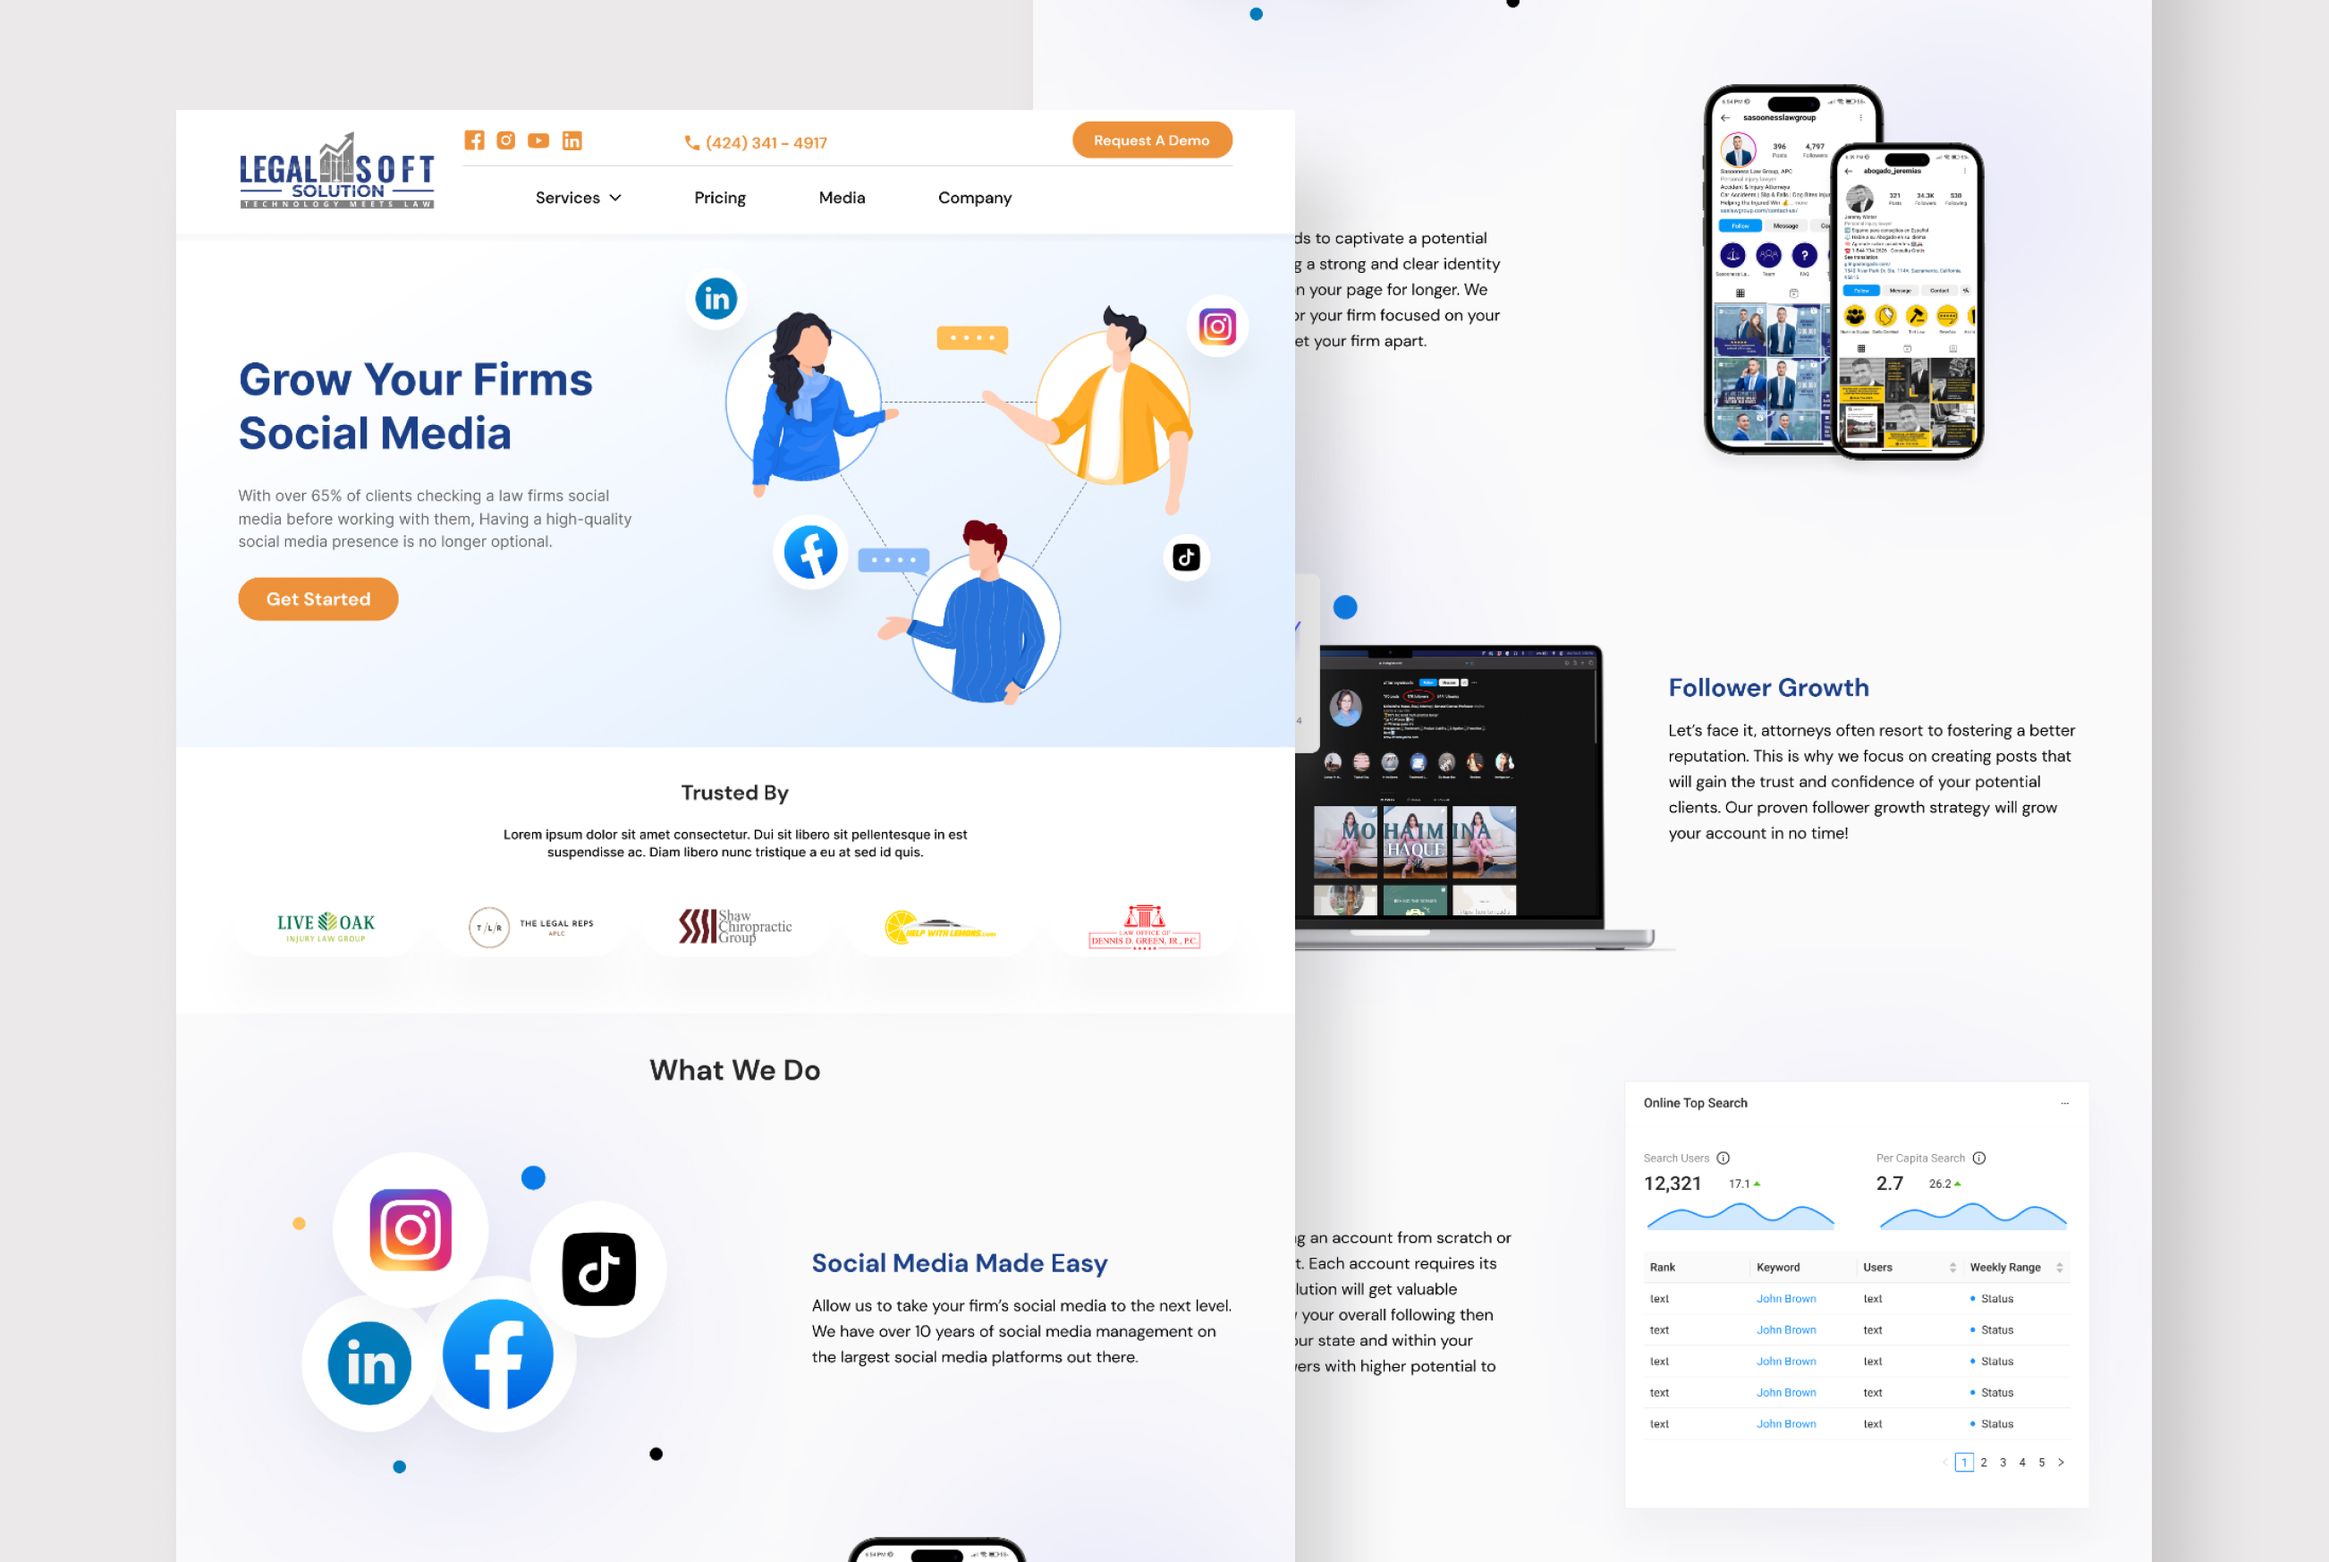
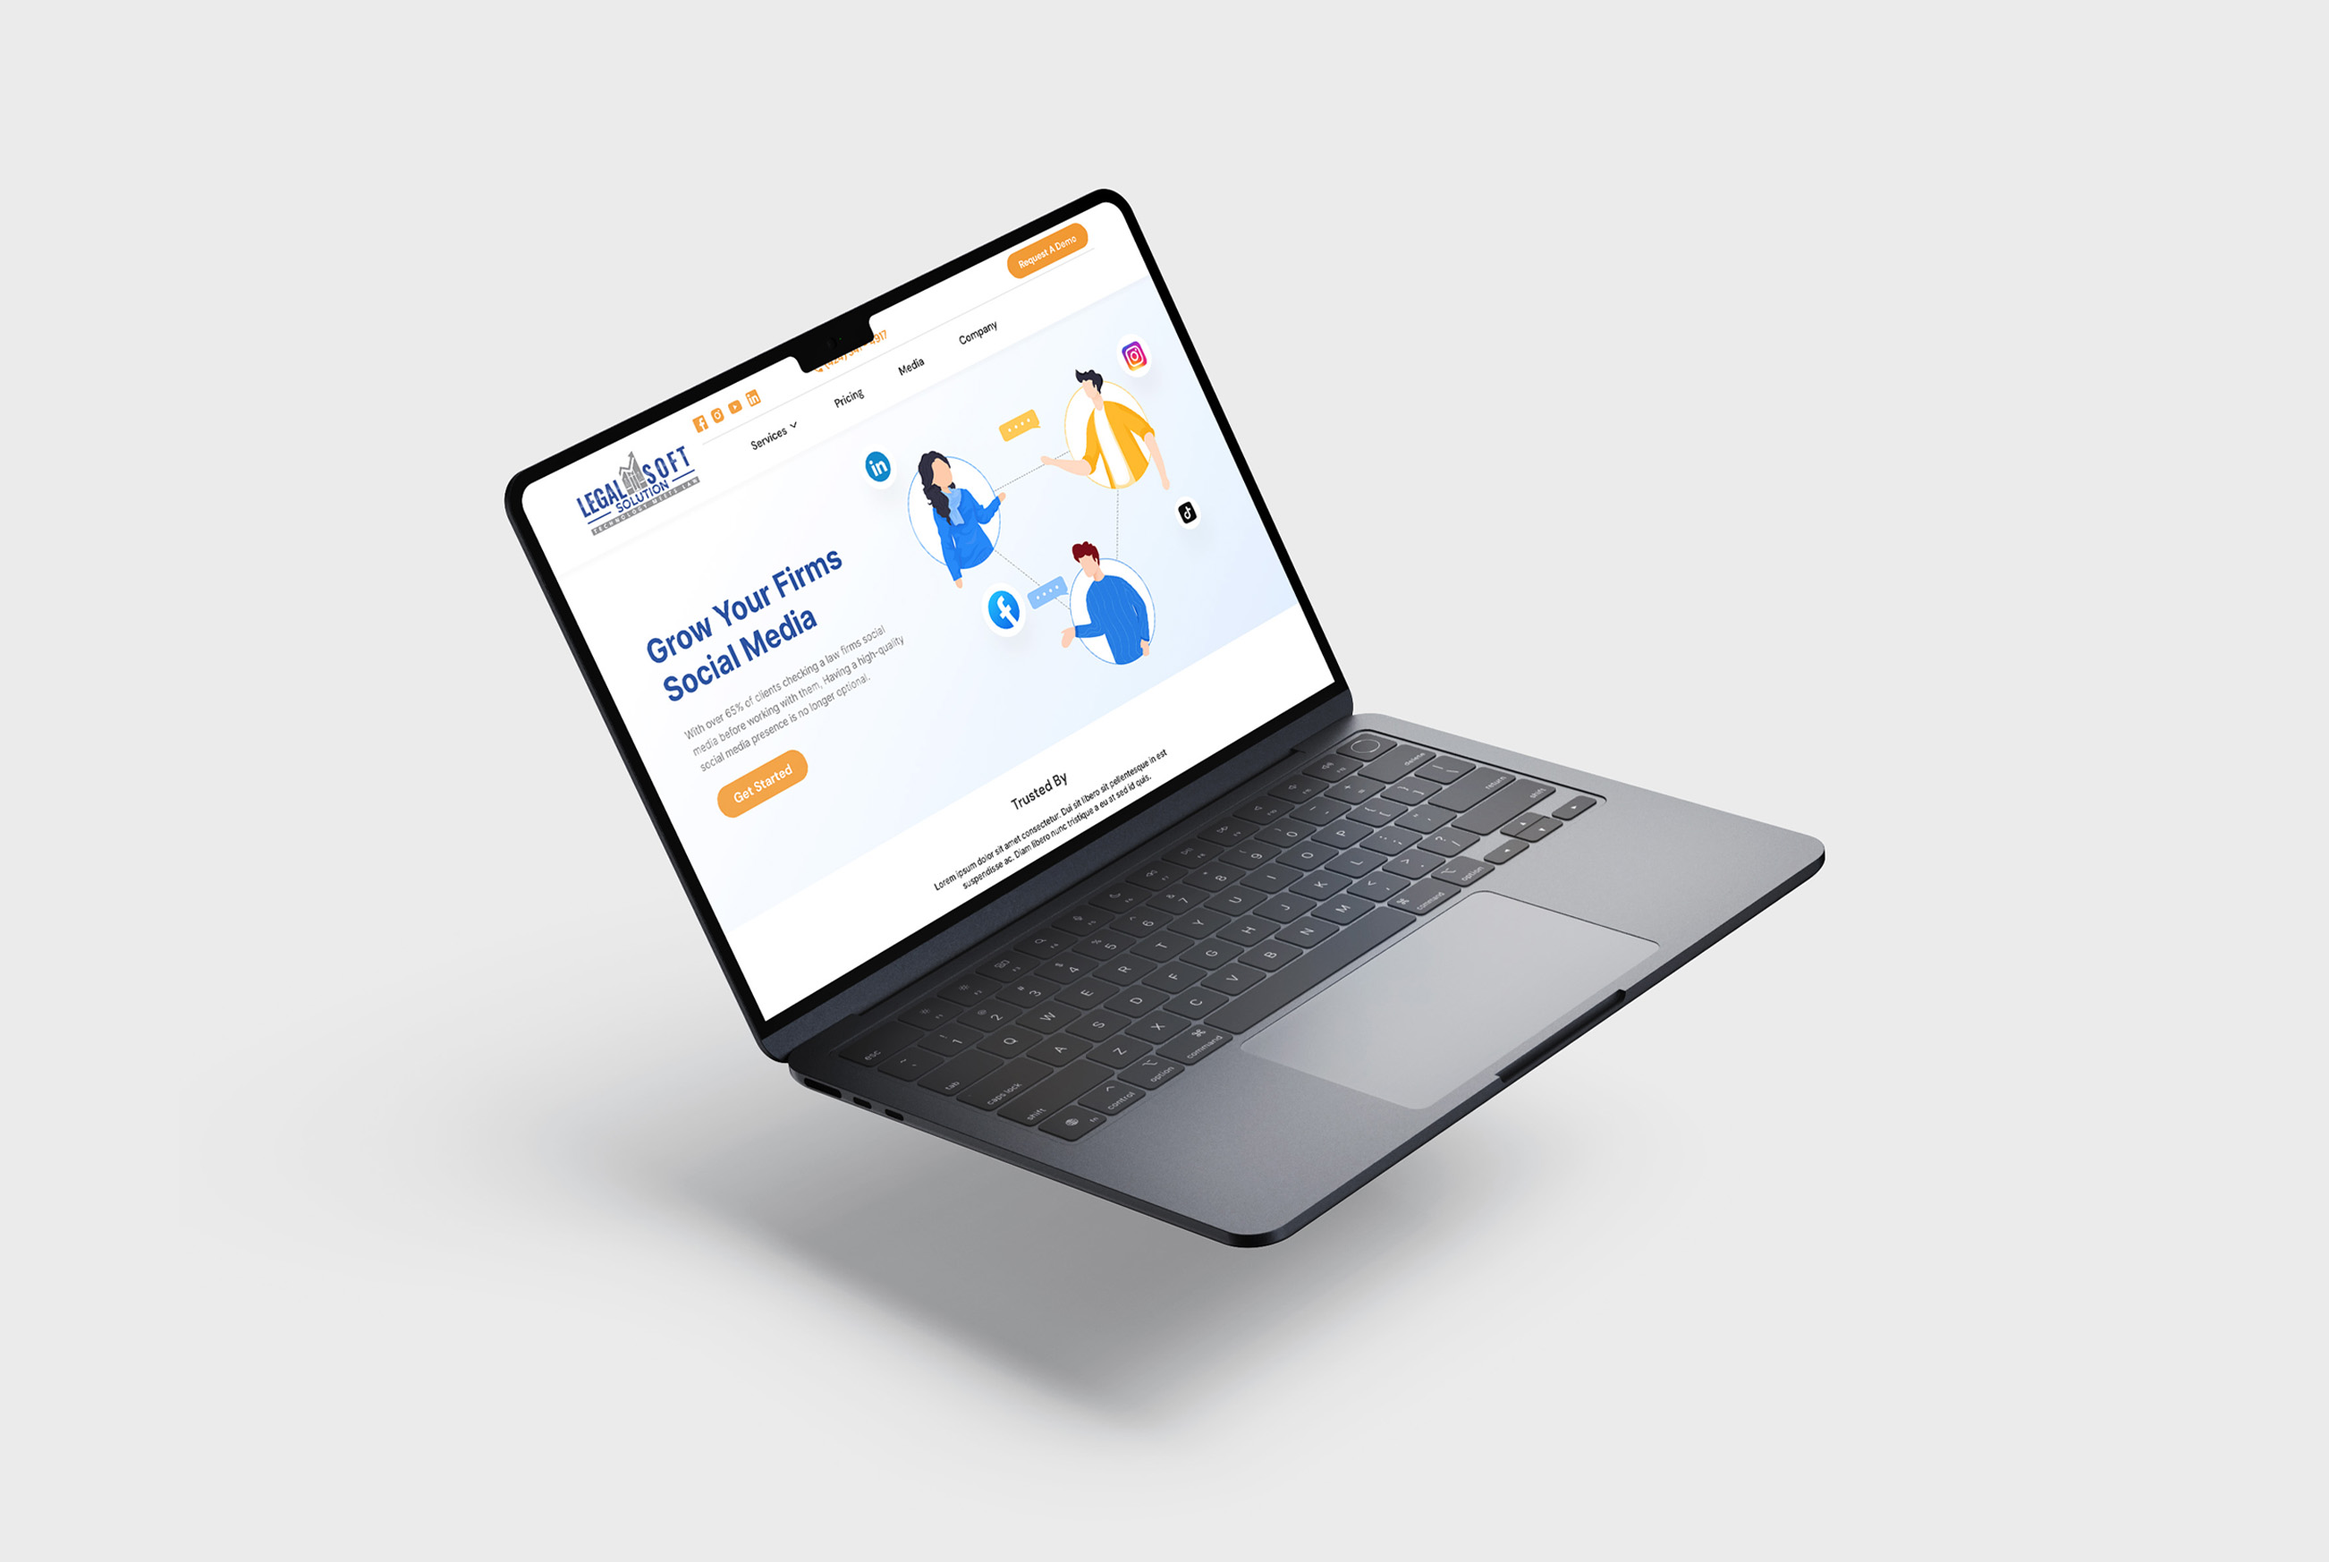
added projects

diff --git a/pages/web-legalsoft.html b/pages/web-legalsoft.html
@@ -1,0 +1,172 @@
+<!DOCTYPE html>
+<html lang="en">
+
+<head>
+  <meta charset="utf-8">
+  <meta content="width=device-width, initial-scale=1.0" name="viewport">
+
+  <title>Jiulieno | Design Details</title>
+  <meta content="" name="description">
+  <meta content="" name="keywords">
+
+  <!-- Favicons -->
+  <link href="../assets/img/logo1.jpg" rel="icon">
+  <link href="../assets/img/logo1.jpg" rel="apple-touch-icon">
+
+
+  <!-- Google Fonts -->
+  <link href="https://fonts.googleapis.com/css?family=Open+Sans:300,300i,400,400i,600,600i,700,700i|Raleway:300,300i,400,400i,500,500i,600,600i,700,700i|Poppins:300,300i,400,400i,500,500i,600,600i,700,700i" rel="stylesheet">
+
+  <!-- Vendor CSS Files -->
+  <link href="../assets/vendor/aos/aos.css" rel="stylesheet">
+  <link href="../assets/vendor/bootstrap/css/bootstrap.min.css" rel="stylesheet">
+  <link href="../assets/vendor/bootstrap-icons/bootstrap-icons.css" rel="stylesheet">
+  <link href="../assets/vendor/boxicons/css/boxicons.min.css" rel="stylesheet">
+  <link href="../assets/vendor/glightbox/css/glightbox.min.css" rel="stylesheet">
+  <link href="../assets/vendor/remixicon/remixicon.css" rel="stylesheet">
+  <link href="../assets/vendor/swiper/swiper-bundle.min.css" rel="stylesheet">
+
+  <!-- Template Main CSS File -->
+  <link href="../assets/css/style.css" rel="stylesheet">
+
+  <!-- =======================================================
+  * Template Name: OnePage
+  * Updated: Sep 18 2023 with Bootstrap v5.3.2
+  * Template URL: https://bootstrapmade.com/onepage-multipurpose-bootstrap-template/
+  * Author: BootstrapMade.com
+  * License: https://bootstrapmade.com/license/
+  ======================================================== -->
+</head>
+
+<body>
+
+  <!-- ======= Header ======= -->
+  <header id="header" class="fixed-top">
+    <div class="container d-flex align-items-center justify-content-between">
+
+      <!-- <h1 class="logo"><a href="index.html">Jiu Orjalo</a></h1> -->
+      <!-- Uncomment below if you prefer to use an image logo -->
+      <a href="../index.html" class="logo"><img src="../assets/img/logo.png" alt="" class="img-fluid"></a>
+
+      <nav id="navbar" class="navbar">
+        <ul>
+          <li><a class="nav-link scrollto" href="../index.html#hero">Home</a></li>
+          <li><a class="nav-link scrollto" href="../index.html#about">About</a></li>
+          <li><a class="nav-link scrollto" href="../index.html#services">Services</a></li>
+          <li><a class="nav-link scrollto" href="../index.html#resume">Work Experience</a></li>
+          <li><a class="nav-link scrollto active" href="../index.html#portfolio">✨ Portfolio</a></li>
+          <li><a class="nav-link scrollto" href="../index.html#certificates">Certificates</a></li>
+          <li><a class="nav-link scrollto" href="../index.html#contact">Contact</a></li>
+        </ul>
+        <i class="bi bi-list mobile-nav-toggle"></i>
+      </nav><!-- .navbar -->
+
+    </div>
+  </header><!-- End Header -->
+
+  <main id="main">
+
+    <!-- ======= Breadcrumbs ======= -->
+    <section id="breadcrumbs" class="breadcrumbs">
+      <div class="container">
+
+        <div class="d-flex justify-content-between align-items-center">
+          <h2>LegalSoft Solution Web Design</h2>
+          <ol>
+            <li><a href="../index.html#portfolio">Home</a></li>
+            <li>Portfolio Details</li>
+          </ol>
+        </div>
+
+      </div>
+    </section><!-- End Breadcrumbs -->
+
+    <!-- ======= Portfolio Details Section ======= -->
+    <section id="portfolio-details" class="portfolio-details">
+      <div class="container">
+
+        <div class="row gy-4">
+          
+          <div class="col-lg-8">
+            <div class="portfolio-details-slider swiper">
+              <div class="swiper-wrapper align-items-center">
+
+                <div class="swiper-slide">
+                  <img src="../assets/img/portfolio2/web/web-legalsoft1.jpg" alt="">
+                </div>
+
+                <div class="swiper-slide">
+                  <img src="../assets/img/portfolio2/web/web-legalsoft2.jpg" alt="">
+                </div>
+
+              </div>
+              <div class="swiper-pagination"></div>
+            </div>
+          </div>
+
+          <div class="col-lg-4">
+            <div class="portfolio-info">
+              <h3>Project information</h3>
+              <ul>
+                <li><strong>Category</strong>: Web Design</li>
+                <li><strong>Client</strong>: LegalSoft Solution</li>
+                <li><strong>Client Country</strong>: USA</li>
+                <!-- <li><strong>Project URL</strong>: <a href="#">www.example.com</a></li> -->
+              </ul>
+            </div>
+            <div class="portfolio-description">
+              <h2>LegalSoft Solution Web Design</h2>
+              <p>
+                Autem ipsum nam porro corporis rerum. Quis eos dolorem eos itaque inventore commodi labore quia quia. Exercitationem repudiandae officiis neque suscipit non officia eaque itaque enim. Voluptatem officia accusantium nesciunt est omnis tempora consectetur dignissimos. Sequi nulla at esse enim cum deserunt eius.
+              </p>
+
+              <p><strong>Tools:</strong> Adobe Photoshop, Figma</p>
+            </div>
+          </div>
+
+        </div>
+
+      </div>
+    </section><!-- End Portfolio Details Section -->
+
+  </main><!-- End #main -->
+
+  <!-- ======= Footer ======= -->
+  <footer id="footer">
+
+
+
+    <div class="container d-md-flex py-4">
+
+      <div class="me-md-auto text-center text-md-start">
+        <div class="copyright">
+           <strong><span>Contact Me</span></strong>
+        </div>
+        <div class="credits">
+          jiulieno.orjalo@gmail.com
+        </div>
+      </div>
+      <div class="social-links text-center text-md-right pt-3 pt-md-0">
+        <a href="#" class="twitter"><i class="bx bxl-facebook"></i></a>
+        <a href="#" class="facebook"><i class="bx bxl-linkedin"></i></a>
+        <a href="#" class="instagram"><i class="bx bxl-github"></i></a>
+      </div>
+    </div>
+  </footer><!-- End Footer -->
+
+
+  <!-- Vendor JS Files -->
+  <script src="../assets/vendor/purecounter/purecounter_vanilla.js"></script>
+  <script src="../assets/vendor/aos/aos.js"></script>
+  <script src="../assets/vendor/bootstrap/js/bootstrap.bundle.min.js"></script>
+  <script src="../assets/vendor/glightbox/js/glightbox.min.js"></script>
+  <script src="../assets/vendor/isotope-layout/isotope.pkgd.min.js"></script>
+  <script src="../assets/vendor/swiper/swiper-bundle.min.js"></script>
+  <script src="../assets/vendor/php-email-form/validate.js"></script>
+
+  <!-- Template Main JS File -->
+  <script src="../assets/js/main.js"></script>
+
+</body>
+
+</html>

diff --git a/pages/all-design.html b/pages/all-design.html
@@ -271,26 +271,28 @@
             </div>
           </div>
 
-          
+        
+
           <div class="col-lg-4 col-md-6 portfolio-item filter-web">
             <div class="portfolio-wrap">
-              <img src="../assets/img/portfolio2/web/web-boost.jpg" class="img-fluid" alt="">
+              <img src="../assets/img/portfolio2/web/web-legalsoft.jpg" class="img-fluid" alt="">
               <div class="portfolio-info">
-                <h4>Boost Capital <br> Landing Page Design</h4>
+                <h4>LegalSoft Website</h4>
                 <p>Web Design</p>
                 <div class="portfolio-links">
-                  <a href="../assets/img/portfolio2/web/web-boost.jpg" data-gallery="portfolioGallery" class="portfolio-lightbox"><i class="bx bx-search"></i></a>
-                  <a href="web-boost.html" title="More Details"><i class="bx bx-info-circle"></i></a>
+                  <a href="../assets/img/portfolio2/web/web-legalsoft.jpg" data-gallery="portfolioGallery" class="portfolio-lightbox"><i class="bx bx-search"></i></a>
+                  <a href="web-legalsoft.html" title="More Details"><i class="bx bx-info-circle"></i></a>
                 </div>
               </div>
             </div>
           </div>
 
+
           <div class="col-lg-4 col-md-6 portfolio-item filter-web">
             <div class="portfolio-wrap">
               <img src="../assets/img/portfolio2/web/web-lawpush.jpg" class="img-fluid" alt="">
               <div class="portfolio-info">
-                <h4>LawPush Web Design</h4>
+                <h4>LawPush Website</h4>
                 <p>Web Design</p>
                 <div class="portfolio-links">
                   <a href="../assets/img/portfolio2/web/web-lawpush.jpg" data-gallery="portfolioGallery" class="portfolio-lightbox"><i class="bx bx-search"></i></a>
@@ -304,7 +306,7 @@
             <div class="portfolio-wrap">
               <img src="../assets/img/portfolio2/web/web-theodor.jpg" class="img-fluid" alt="">
               <div class="portfolio-info">
-                <h4>Theodor Web Design</h4>
+                <h4>Theodor Website</h4>
                 <p>Web Design</p>
                 <div class="portfolio-links">
                   <a href="../assets/img/portfolio2/web/web-theodor.jpg" data-gallery="portfolioGallery" class="portfolio-lightbox"><i class="bx bx-search"></i></a>
@@ -322,7 +324,7 @@
                 <p>Web Design</p>
                 <div class="portfolio-links">
                   <a href="../assets/img/portfolio2/web/web-reskills.jpg" data-gallery="portfolioGallery" class="portfolio-lightbox"><i class="bx bx-search"></i></a>
-                  <a href="web-reskills.html" title="More Details"><i class="bx bx-info-circle"></i></a>
+                  <!-- <a href="web-reskills.html" title="More Details"><i class="bx bx-info-circle"></i></a> -->
                 </div>
               </div>
             </div>
@@ -330,17 +332,17 @@
           
           <div class="col-lg-4 col-md-6 portfolio-item filter-web">
             <div class="portfolio-wrap">
-              <img src="../assets/img/portfolio2/web/web-legalsoft.jpg" class="img-fluid" alt="">
+              <img src="../assets/img/portfolio2/web/web-boost.jpg" class="img-fluid" alt="">
               <div class="portfolio-info">
-                <h4>LegalSoft Web Design</h4>
+                <h4>Boost Capital <br> Landing Page Design</h4>
                 <p>Web Design</p>
                 <div class="portfolio-links">
-                  <a href="../assets/img/portfolio2/web/web-legalsoft.jpg" data-gallery="portfolioGallery" class="portfolio-lightbox"><i class="bx bx-search"></i></a>
+                  <a href="../assets/img/portfolio2/web/web-boost.jpg" data-gallery="portfolioGallery" class="portfolio-lightbox"><i class="bx bx-search"></i></a>
+                  <!-- <a href="web-boost.html" title="More Details"><i class="bx bx-info-circle"></i></a> -->
                 </div>
               </div>
             </div>
           </div>
-
 
           <div class="col-lg-4 col-md-6 portfolio-item filter-web">
             <div class="portfolio-wrap">
